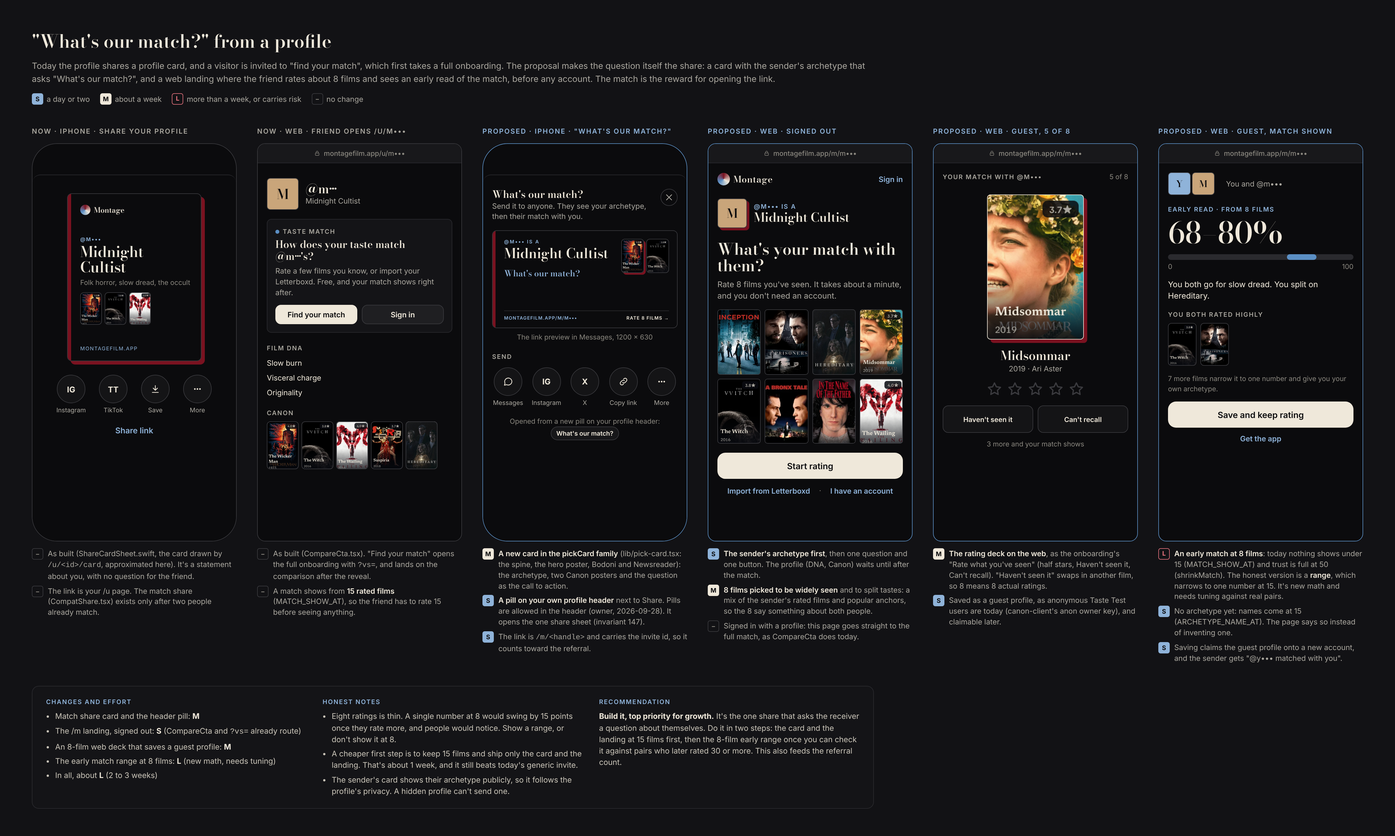
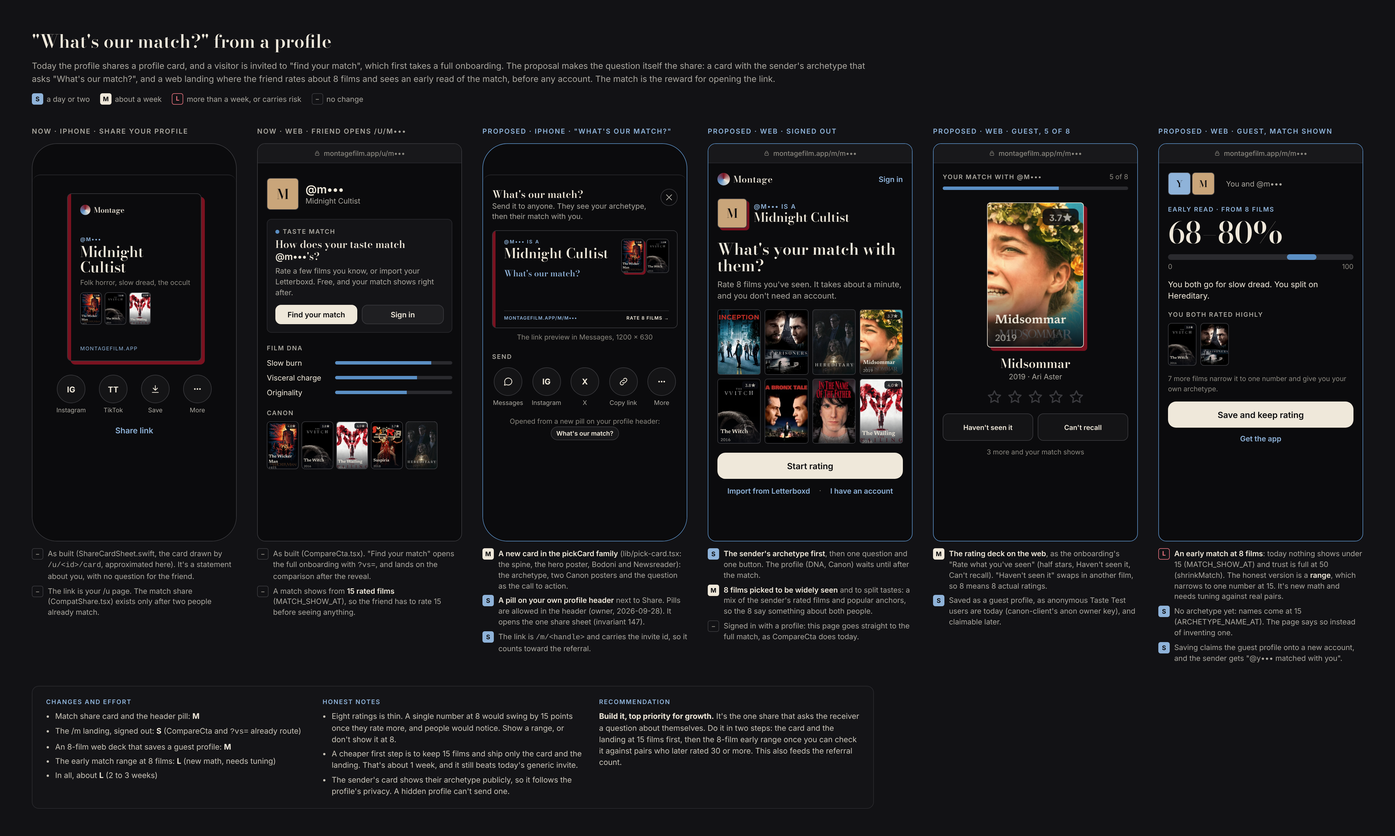
Mocks: growth and retention journey (challenges, referral, official account, match link, year card, Montage Pro)
Six Now-vs-Proposed mocks in mockups/journeys/, each change captioned with
S/M/L effort and an honest recommendation. The paid tier is named Montage
Pro (matches lib/pro.ts). Shared pieces: growth.css, growth-icons.js,
growth-render.js (Playwright, 2x).

Claude-Session: https://claude.ai/code/session_013WRDCFXH8nihP92apJAVW7

Changed region(s): [[0.6864, 0.2167, 0.8112, 0.5571], [0.2496, 0.4333, 0.312, 0.4952], [0.2184, 0.2167, 0.2496, 0.2476]]

diff --git a/mockups/journeys/pro.html b/mockups/journeys/pro.html
@@ -1,0 +1,132 @@
+<!doctype html><html><head><meta charset="utf-8"><title>Montage Pro</title><link href="https://fonts.googleapis.com/css2?family=Bodoni+Moda:opsz,wght@6..96,500;6..96,600&family=Inter:wght@400;500;600;700&family=Newsreader:opsz,wght@6..72,400;6..72,600&display=block" rel="stylesheet"><link rel="stylesheet" href="../proportions-common.css"><link rel="stylesheet" href="growth.css"><style>
+.sheet{position:absolute;left:0;right:0;top:54px;bottom:0;background:#0B0B0D;border-top:1px solid #2A2A2E;border-radius:14px 14px 0 0;padding:10px 16px}
+.mrow{display:flex;align-items:center;gap:12px;height:48px;border-bottom:1px solid #2A2A2E;font-size:15px}
+.mrow .ic3{color:#A9A69E}.mrow .r{margin-left:auto;color:#8A877F;font-size:13px;display:flex;align-items:center;gap:4px}
+.grp{border:1px solid #2A2A2E;border-radius:8px;background:#141417;padding:0 14px;margin-top:14px}
+.grp .mrow:last-child{border-bottom:0}
+.free{display:grid;grid-template-columns:1fr 1fr;gap:5px 10px;margin-top:8px;font-size:12.5px;color:#C9C4B8}
+.free span{display:flex;gap:6px;align-items:center}.free svg{color:#8FB3D9}
+.feat{display:flex;gap:10px;align-items:flex-start;padding:7px 0;border-top:1px solid #2A2A2E}
+.feat svg{color:#8FB3D9;margin-top:1px}
+.feat .a{font:600 13px Inter}.feat .b{font-size:11.5px;color:#8A877F;margin-top:1px;line-height:1.35}
+.plan{border:1px solid #3A3A3E;border-radius:10px;padding:12px 14px;display:flex;align-items:center;gap:12px;margin-top:8px}
+.plan.on{border-color:#5B8FC4;background:rgba(91,143,196,.08)}
+.rad{width:18px;height:18px;border-radius:50%;border:1.5px solid #3A3A3E;flex:none}
+.plan.on .rad{border:5px solid #5B8FC4}
+.plan .p{margin-left:auto;text-align:right}.plan .p b{font:600 15px Inter;display:block}.plan .p span{font-size:11.5px;color:#8A877F}
+.tl{margin-top:16px;position:relative;padding-left:24px}
+.tl:before{content:"";position:absolute;left:7px;top:6px;bottom:8px;width:1.5px;background:#3A3A3E}
+.tl .s{position:relative;padding-bottom:12px}
+.tl .s:before{content:"";position:absolute;left:-22px;top:3px;width:12px;height:12px;border-radius:50%;background:#0B0B0D;border:1.5px solid #3A3A3E}
+.tl .s.on:before{background:#5B8FC4;border-color:#5B8FC4}
+.tl .d{font:600 11px Inter;letter-spacing:1.2px;text-transform:uppercase;color:#A9A69E}.tl .s.on .d{color:#8FB3D9}
+.tl .t{font-size:13.5px;margin-top:2px;line-height:1.35}
+.protag{display:inline-flex;align-items:center;height:16px;padding:0 5px;border-radius:4px;border:1px solid #3A3A3E;font:600 9.5px Inter;letter-spacing:.8px;color:#A9A69E;text-transform:uppercase;margin-left:6px}
+.dna{display:flex;flex-direction:column;gap:9px;margin-top:10px}
+.dna .row{font-size:13px}.dna .row span{width:120px}
+.never{margin-top:14px;border:1px dashed #3A3A3E;border-radius:8px;padding:10px 12px;font-size:12px;color:#A9A69E;line-height:1.45}
+.never b{color:#EFE8DA}
+</style></head><body>
+<h1>Montage Pro (a proposal, not for building now)</h1>
+<p class="lede">A restrained paid tier for depth and identity. It never touches what makes Montage work: matches, Picks, Film DNA, archetypes, taste match between people and movie nights stay free, with no counts, caps or blurred previews. $1.99 a month or $14.99 a year, with a 7-day trial and a reminder two days before the charge. The name fits the code: lib/pro.ts already calls the entitlement "Pro".</p>
+<div class="legend"><span><i class="sz S">S</i> a day or two</span><span><i class="sz M">M</i> about a week</span><span><i class="sz L">L</i> more than a week, or carries risk</span><span><i class="sz N">–</i> no change</span></div>
+
+<div class="sect"><div class="cols">
+<!-- NOW -->
+<div class="col"><div class="tg">Now · ☰ Menu</div>
+<div class="phone" style="height:790px"><div class="sheet">
+ <div class="row" style="justify-content:space-between;margin-top:12px"><span class="t22">Menu</span><span style="font:600 15px Inter">Done</span></div>
+ <div class="grp">
+  <div class="mrow"><i data-g="user" class="ic3"></i>View public profile<span class="r"><i data-g="share" data-s="14"></i></span></div>
+  <div class="mrow"><i data-g="sliders" class="ic3"></i>Settings<span class="r"><i data-g="cr" data-s="14"></i></span></div>
+  <div class="mrow"><i data-g="info" class="ic3"></i>How Montage works</div>
+  <div class="mrow"><i data-g="msg" class="ic3"></i>Send feedback<span class="r"><i data-g="cr" data-s="14"></i></span></div>
+ </div>
+ <div class="grp">
+  <div class="mrow"><i data-g="film" class="ic3"></i>About<span class="r"><i data-g="cr" data-s="14"></i></span></div>
+  <div class="mrow"><i data-g="lock" class="ic3"></i>Privacy<span class="r"><i data-g="cr" data-s="14"></i></span></div>
+  <div class="mrow"><i data-g="bm" class="ic3"></i>Terms<span class="r"><i data-g="cr" data-s="14"></i></span></div>
+ </div>
+</div></div>
+<ul class="chg">
+<li><i class="sz N">–</i><span>As built (AccountScreens.swift). There's nothing to buy anywhere in the app.</span></li>
+<li><i class="sz N">–</i><span>"Pro" exists only as a hand-added <code>pro_accounts</code> row (lib/pro.ts). It gates Lately (runs, recaps, taste over time), which simply doesn't appear for anyone else: no teaser and no lock.</span></li>
+<li><i class="sz N">–</i><span>Revenue today is affiliate links only (teardown section 6).</span></li>
+</ul></div>
+
+<!-- PROPOSED 1: what it is -->
+<div class="col"><div class="tg new">Proposed · Menu › Montage Pro</div>
+<div class="phone new" style="height:790px"><div class="row" style="height:40px"><span class="cbtn">‹ Menu</span></div>
+ <div class="row" style="margin-top:8px;gap:10px"><div class="fan" style="width:34px;height:34px;flex:none"></div><span class="t28">Montage Pro</span></div>
+ <div class="m" style="margin-top:8px;font-size:14px;line-height:1.45">More depth, for people who want it. It also keeps Montage independent.</div>
+ <div class="capsl b" style="margin-top:14px">Always free, for everyone</div>
+ <div class="free"><span><i data-g="check" data-s="14"></i>Matches and Picks</span><span><i data-g="check" data-s="14"></i>Film DNA</span><span><i data-g="check" data-s="14"></i>Your archetype</span><span><i data-g="check" data-s="14"></i>Taste match with anyone</span><span><i data-g="check" data-s="14"></i>Movie nights</span><span><i data-g="check" data-s="14"></i>Your year in film</span></div>
+ <div class="capsl" style="margin-top:14px;margin-bottom:4px">What Pro adds</div>
+ <div class="feat"><i data-g="chart" data-s="16"></i><div><div class="a">Taste over time</div><div class="b">How your Film DNA and archetype moved, month by month</div></div></div>
+ <div class="feat"><i data-g="cal" data-s="16"></i><div><div class="a">Your report, any time</div><div class="b">Any month, season or custom range, not only December</div></div></div>
+ <div class="feat"><i data-g="users" data-s="16"></i><div><div class="a">Group stats</div><div class="b">Who agrees, who splits, every movie night's verdict</div></div></div>
+ <div class="feat"><i data-g="image" data-s="16"></i><div><div class="a">Custom posters</div><div class="b">Pick the poster art your profile and Canon show</div></div></div>
+ <div class="feat"><i data-g="palette" data-s="16"></i><div><div class="a">Profile theme</div><div class="b">A banner and one of four print grades</div></div></div>
+ <div class="feat"><i data-g="canon" data-s="16"></i><div><div class="a">A longer Canon</div><div class="b">25 films, displayed. Your taste reads the same.</div></div></div>
+ <div class="feat"><i data-g="flask" data-s="16"></i><div><div class="a">Early access</div><div class="b">New features a few weeks before everyone</div></div></div>
+ <div class="mbtn" style="margin-top:12px">See plans</div>
+</div>
+<ul class="chg">
+<li><i class="sz S">S</i><span><b>"Always free" comes first</b>, above what Pro adds, so nobody wonders what's being taken away.</span></li>
+<li><i class="sz N">–</i><span>Seven extras, all depth or identity. None changes your matches, picks or match % with anyone.</span></li>
+<li><i class="sz S">S</i><span>"A longer Canon" is <b>display only at 25</b> (the taste weighting stays spread across the Canon), and it sits above the referral's 15, so the two don't collide.</span></li>
+</ul></div>
+
+<!-- PROPOSED 2: pricing + trial -->
+<div class="col"><div class="tg new">Proposed · Plans and the 7-day trial</div>
+<div class="phone new" style="height:790px"><div class="row" style="height:40px"><span class="cbtn">‹ Montage Pro</span></div>
+ <div class="t22" style="margin-top:10px">Try Pro free for 7 days</div>
+ <div class="plan on"><span class="rad"></span><div><div style="font:600 14px Inter">Yearly</div><div class="sm">$1.25 a month, billed yearly</div></div><div class="p"><b>$14.99</b><span>a year</span></div></div>
+ <div class="plan"><span class="rad"></span><div><div style="font:600 14px Inter">Monthly</div><div class="sm">Cancel any time</div></div><div class="p"><b>$1.99</b><span>a month</span></div></div>
+ <div class="tl">
+  <div class="s on"><div class="d">Today</div><div class="t">Everything in Pro. <b>$0.00 due now.</b></div></div>
+  <div class="s"><div class="d">Day 5</div><div class="t">We remind you, in the app and by email, two days before any charge.</div></div>
+  <div class="s"><div class="d">Day 7</div><div class="t">$14.99 for the year, unless you cancelled. Cancel before then in your Apple subscriptions, linked from Settings.</div></div>
+ </div>
+ <div class="mbtn">Start the free week</div>
+ <div class="sm" style="text-align:center;margin-top:10px;line-height:1.5">If you cancel, nothing you made is deleted. Your extra Canon films stay saved, and Pro's views hide again.</div>
+ <div class="row" style="justify-content:center;gap:14px;margin-top:12px"><span class="lnk" style="font-size:12px">Restore purchase</span><span class="lnk" style="font-size:12px">Terms</span><span class="lnk" style="font-size:12px">Privacy</span></div>
+</div>
+<ul class="chg">
+<li><i class="sz S">S</i><span><b>The honest timeline</b>: the same three steps as Popcorn's, but the reminder comes on day 5, not day 6, and by email too. The charge amount is written out.</span></li>
+<li><i class="sz N">–</i><span>$1.99 a month or $14.99 a year undercuts Popcorn ($24.99 a year). $19.99 a year is the other option. Start at $14.99, since raising a price later is easier than cutting one.</span></li>
+<li><i class="sz S">S</i><span>No "less than two movie tickets" or countdown timers. The page is in brand style, cream button, no gradient.</span></li>
+</ul></div>
+
+<!-- PROPOSED 3: quiet mentions -->
+<div class="col"><div class="tg new">Proposed · Where Pro is mentioned</div>
+<div class="phone new" style="height:790px"><div class="top"><div class="fan"></div><div class="wm">Montage</div></div>
+ <div class="utabs"><span class="on">Taste</span><span>Films</span><span>Watchlist</span><span>History</span></div>
+ <div class="sh" style="margin-top:16px"><span class="t">Film DNA</span></div>
+ <div class="dna">
+  <div class="row"><span>Slow burn</span><div class="bar" style="flex:1"><i style="width:82%"></i></div></div>
+  <div class="row"><span>Visceral charge</span><div class="bar" style="flex:1"><i style="width:70%"></i></div></div>
+  <div class="row"><span>Originality</span><div class="bar" style="flex:1"><i style="width:61%"></i></div></div>
+  <div class="row"><span>Emotional realism</span><div class="bar" style="flex:1"><i style="width:48%"></i></div></div>
+ </div>
+ <div class="row" style="margin-top:12px;font-size:13px;color:#A9A69E;gap:6px"><span>See how this changed since May</span><span class="protag">Pro</span><i data-g="cr" data-s="13" style="margin-left:auto"></i></div>
+ <div class="rule" style="margin:14px 0"></div>
+ <div class="capsl">In the share sheet</div>
+ <div class="row" style="gap:5px;margin-top:8px"><span class="cbtn" style="height:30px;padding:0 9px;font-size:12px">Profile</span><span class="cbtn" style="height:30px;padding:0 9px;font-size:12px">October</span><span class="cbtn on" style="height:30px;padding:0 9px;font-size:12px">2026</span><span class="cbtn" style="height:30px;padding:0 8px;font-size:12px;color:#A9A69E">Any range<span class="protag" style="margin-left:4px">Pro</span></span></div>
+ <div class="capsl" style="margin-top:14px">In the ☰ menu</div>
+ <div class="grp" style="margin-top:8px"><div class="mrow" style="height:44px"><i data-g="sliders" class="ic3"></i>Settings<span class="r"><i data-g="cr" data-s="14"></i></span></div><div class="mrow" style="height:44px"><i data-g="spark" class="ic3"></i>Montage Pro<span class="r">Try free<i data-g="cr" data-s="14"></i></span></div></div>
+ <div class="never"><b>Never</b> on Picks, Browse, a film page, a match, a movie night or the taste test. No pop-ups, no badge on other people, and no notification about Pro.</div>
+</div>
+<ul class="chg">
+<li><i class="sz S">S</i><span><b>Three quiet mentions</b>: one grey line under Film DNA, one chip in the share sheet and one menu row. Each uses the keylined tag, never blue (blue means "you"), and never a lock over content.</span></li>
+<li><i class="sz S">S</i><span>A Pro member gets no badge visible to others. Status isn't for sale.</span></li>
+<li><i class="sz S">S</i><span>A rule for the owner's invariants: "no Pro mention on Picks, match, rooms or the taste test", checked like the others.</span></li>
+</ul></div>
+</div></div>
+
+<div class="verdict">
+<div><h3>Changes and effort</h3><ul><li>Pro page, plans, trial and quiet mentions: <b>M</b></li><li>StoreKit 2 subscriptions, server receipt checks and writing <code>pro_accounts</code> with an expiry: <b>L</b></li><li>The web (Stripe) too, so web users can pay: <b>L</b>, and it can wait</li><li>Features: taste over time <b>M</b> (data and the gate exist), report any time <b>S</b> after the year card, group stats <b>M</b>, custom posters <b>M</b>, theme <b>M</b>, longer Canon <b>S</b> after the referral work, early access <b>S</b></li><li>In all, about <b>L</b> (5 to 7 weeks)</li></ul></div>
+<div><h3>Honest notes</h3><ul><li>The money is small at first. At about 1,000 monthly users and 2 to 4% paying, that's 20 to 40 subscribers, roughly $250 to $500 a year after Apple's 15%. Pro is a signal that Montage can last, not a business yet.</li><li>A paywall that arrives before people love the app costs more goodwill than it earns. The teardown already says to wait for retention data and about 1,000+ monthly users.</li><li>Every feature on the list has to be good enough to pay for on its own. "Taste over time" is the only one that's close to built.</li></ul></div>
+<div><h3>Recommendation</h3><p><b>Skip it for now. Revisit at about 1,000 monthly users with 4-week retention data.</b> Keep the page as the design to build to. In the meantime, build the free pieces that Pro would sit on (the year card, the referral's Canon work, the monthly snapshots), so Pro is mostly billing when its time comes.</p></div>
+</div>
+<script src="growth-icons.js"></script></body></html>

diff --git a/mockups/journeys/year-card.html b/mockups/journeys/year-card.html
@@ -1,0 +1,127 @@
+<!doctype html><html><head><meta charset="utf-8"><title>Your year in film</title><link href="https://fonts.googleapis.com/css2?family=Bodoni+Moda:opsz,wght@6..96,500;6..96,600&family=Inter:wght@400;500;600;700&family=Newsreader:opsz,wght@6..72,400;6..72,600&display=block" rel="stylesheet"><link rel="stylesheet" href="../proportions-common.css"><link rel="stylesheet" href="growth.css"><style>
+.sheet{position:absolute;left:0;right:0;top:54px;bottom:0;background:#0B0B0D;border-top:1px solid #2A2A2E;border-radius:14px 14px 0 0;padding:10px 16px}
+.pcard{margin:22px auto 0;width:236px;height:295px;border-radius:8px;box-shadow:6px 6px 0 #7A1220;background:#0b0b0d;border:1px solid #3A3A3E;position:relative;overflow:hidden;padding:18px 16px 14px 22px;display:flex;flex-direction:column}
+.pcard:before{content:"";position:absolute;left:0;top:0;bottom:0;width:6px;background:#7A1220}
+.dest{display:flex;justify-content:center;gap:18px;margin-top:22px}
+.dest span{width:56px;text-align:center;font-size:11px;color:#A9A69E}
+.dest .c{width:50px;height:50px;border-radius:50%;margin:0 auto 5px;border:1px solid #3A3A3E;background:rgba(255,255,255,.04);display:flex;align-items:center;justify-content:center;color:#EFE8DA;font:700 14px Inter}
+/* the 9:16 card */
+.yc{width:324px;height:576px;background:#0b0b0d;border:1px solid #3A3A3E;border-radius:10px;position:relative;overflow:hidden;padding:26px 22px 18px 30px;display:flex;flex-direction:column;box-shadow:8px 8px 0 #7A1220}
+.yc:before{content:"";position:absolute;left:0;top:0;bottom:0;width:8px;background:#7A1220}
+.yc .ey{font:600 10px Newsreader;letter-spacing:2.6px;text-transform:uppercase;color:#8FB3D9}
+.yc .yr{font:600 52px/0.95 'Bodoni Moda';letter-spacing:-1px;margin-top:6px}
+.yc .who{font:400 14px Newsreader;color:#A9A69E;margin-top:6px}
+.yc .nums{display:flex;gap:22px;margin-top:14px;padding-top:12px;border-top:1px solid #2A2A2E}
+.yc .nums b{display:block;font:600 30px/1 'Bodoni Moda'}
+.yc .nums span{font:600 9px Newsreader;letter-spacing:1.8px;text-transform:uppercase;color:#A9A69E}
+.yc .kv{display:flex;flex-direction:column;gap:9px;margin-top:13px}
+.yc .k{font:600 9px Newsreader;letter-spacing:1.8px;text-transform:uppercase;color:#A9A69E}
+.yc .v{font:600 19px/1.1 'Bodoni Moda';margin-top:2px}
+.yc .best{display:flex;gap:14px;align-items:flex-end;margin-top:auto;padding-top:14px}
+.yc .best .po{width:80px;height:120px;outline:2px solid #EFE8DA;outline-offset:-1px;box-shadow:5px 5px 0 #7A1220;border-radius:6px}
+.yc .ft{display:flex;justify-content:space-between;align-items:center;margin-top:14px;padding-top:10px;border-top:1px solid #2A2A2E;font:600 9px Newsreader;letter-spacing:1px;white-space:nowrap;gap:8px;text-transform:uppercase}
+.mt2{display:inline-flex;align-items:center;height:20px;padding:0 8px;border-radius:999px;background:#5B8FC4;color:#0b0b0d;font:700 11px ui-monospace,Menlo,monospace;margin-left:6px;vertical-align:3px}
+.chips{display:flex;gap:6px;margin-top:14px;justify-content:center}
+.chips span{height:30px;padding:0 12px;border-radius:999px;border:1px solid #3A3A3E;font:600 12.5px Inter;display:flex;align-items:center;color:#A9A69E}
+.chips .on{background:rgba(91,143,196,.14);border-color:#5B8FC4;color:#8FB3D9}
+.mini{width:150px;height:267px;margin:12px auto 0;transform-origin:top center}
+.tog{display:flex;align-items:center;justify-content:space-between;padding:10px 0;border-top:1px solid #2A2A2E;font-size:13px}
+.sw{width:40px;height:24px;border-radius:12px;background:#5B8FC4;position:relative}.sw:after{content:"";position:absolute;right:3px;top:3px;width:18px;height:18px;border-radius:50%;background:#EFE8DA}
+.sw.off{background:#3A3A3E}.sw.off:after{right:auto;left:3px}
+.bnr{border:1px solid #2A2A2E;border-radius:8px;background:#141417;padding:12px;display:flex;gap:12px;align-items:center;margin-top:14px}
+</style></head><body>
+<h1>Your year (and month) in film</h1>
+<p class="lede">A 9:16 card for Stories: hours watched, films, top Film DNA strand, archetype, best film and most-matched friend, built from data Montage already has. The year card is free for everyone, as the Montages mock decided ("Yearly, free for everyone"). A month card uses the same frame. Both come from the share sheet that exists, and Pro's only extra is the report for any range, any time.</p>
+<div class="legend"><span><i class="sz S">S</i> a day or two</span><span><i class="sz M">M</i> about a week</span><span><i class="sz L">L</i> more than a week, or carries risk</span><span><i class="sz N">–</i> no change</span></div>
+
+<div class="sect"><div class="cols">
+<!-- NOW -->
+<div class="col"><div class="tg">Now · Share your profile (the only card)</div>
+<div class="phone" style="height:700px"><div class="sheet">
+ <div class="pcard"><div class="row" style="gap:6px"><div class="fan" style="width:18px;height:18px"></div><span style="font:600 13px 'Bodoni Moda'">Montage</span></div>
+  <div class="capsl b" style="margin-top:auto;font-size:9px">@m•••</div><div style="font:600 26px/1.02 'Bodoni Moda';margin-top:4px">Midnight Cultist</div>
+  <div class="sm" style="margin-top:6px">Folk horror, slow dread, the occult</div>
+  <div style="display:flex;gap:5px;margin:8px 0 auto"><div class="po" style="width:38px;height:57px;background-image:url(../img/wickerman.png)"></div><div class="po" style="width:38px;height:57px;background-image:url(../img/witch.png)"></div><div class="po" style="width:38px;height:57px;background-image:url(../img/wailing.png)"></div></div>
+  <div class="sm" style="font-size:9px;letter-spacing:1px;color:#8FB3D9">MONTAGEFILM.APP</div></div>
+ <div class="dest"><span><div class="c">IG</div>Instagram</span><span><div class="c">TT</div>TikTok</span><span><div class="c"><i data-g="dl"></i></div>Save</span><span><div class="c"><i data-g="more"></i></div>More</span></div>
+ <div class="lnk" style="text-align:center;margin-top:18px;font-size:14px">Share link</div>
+</div></div>
+<ul class="chg">
+<li><i class="sz N">–</i><span>The profile card is the only shareable image about you (ShareCardSheet.swift, <code>/u/&lt;id&gt;/card</code>, approximated). It's the same in January as in December.</span></li>
+<li><i class="sz N">–</i><span>The Montages (month, season, year) are mocked in mockups/montages/ but not built. Lately's recaps sit behind <code>pro_accounts</code> (lib/pro.ts) and show for no one by default.</span></li>
+</ul></div>
+
+<!-- PROPOSED 1: year card -->
+<div class="col" style="width:340px"><div class="tg new">Proposed · The year card, 9:16</div>
+<div class="yc">
+ <div class="row" style="gap:7px"><div class="fan" style="width:20px;height:20px"></div><span style="font:600 14px 'Bodoni Moda'">Montage</span></div>
+ <div class="ey" style="margin-top:20px">Your year in film</div>
+ <div class="yr">2026</div>
+ <div class="who">@m•••</div>
+ <div class="nums"><div><b>142</b><span>Films</span></div><div><b>291</b><span>Hours logged</span></div></div>
+ <div class="kv">
+  <div><div class="k">Archetype</div><div class="v">Midnight Cultist</div></div>
+  <div><div class="k">Top strand</div><div class="v">Slow burn</div></div>
+  <div><div class="k">Most matched</div><div class="v"><span style="font:600 16px Inter">@l•••</span><span class="mt2">88%</span></div></div>
+ </div>
+ <div class="best"><div class="po" style="background-image:url(../img/wailing.png)"></div><div style="padding-bottom:4px"><div class="k">Best film</div><div class="v" style="font-size:20px">The Wailing</div><div class="who" style="font-size:13px;margin-top:2px">2016 · ★★★★★</div></div></div>
+ <div class="ft"><span style="color:#8FB3D9">montagefilm.app</span><span>What's our match? →</span></div>
+</div>
+<ul class="chg" style="margin-top:20px">
+<li><i class="sz M">M</i><span><b>A server-drawn card</b> (ImageResponse), as the profile card and pickCard are: the oxblood spine, the hero poster with the cream keyline and offset, Bodoni and Newsreader only (rule 443).</span></li>
+<li><i class="sz S">S</i><span><b>Hours logged</b> = logged watches × <code>films.runtime_minutes</code>. Films rated with no watch date add nothing, so the label says "logged".</span></li>
+<li><i class="sz S">S</i><span>The footer is the match question, so every Story also works as an invite.</span></li>
+</ul></div>
+
+<!-- PROPOSED 2: month card -->
+<div class="col" style="width:340px"><div class="tg new">Proposed · The month card, same frame</div>
+<div class="yc">
+ <div class="row" style="gap:7px"><div class="fan" style="width:20px;height:20px"></div><span style="font:600 14px 'Bodoni Moda'">Montage</span></div>
+ <div class="ey" style="margin-top:20px">Your month in film</div>
+ <div class="yr" style="font-size:50px">October</div>
+ <div class="who">@m••• · 2026</div>
+ <div class="nums"><div><b>14</b><span>Films</span></div><div><b>27</b><span>Hours logged</span></div></div>
+ <div class="kv">
+  <div><div class="k">Archetype</div><div class="v">Still Midnight Cultist</div></div>
+  <div><div class="k">Top strand</div><div class="v">Visceral charge</div></div>
+  <div><div class="k">Most matched</div><div class="v"><span style="font:600 16px Inter">@d•••</span><span class="mt2">81%</span></div></div>
+ </div>
+ <div class="best"><div class="po" style="background-image:url(../img/hereditary.png)"></div><div style="padding-bottom:4px"><div class="k">Best film</div><div class="v" style="font-size:20px">Hereditary</div><div class="who" style="font-size:13px;margin-top:2px">2018 · ★★★★½</div></div></div>
+ <div class="ft"><span style="color:#8FB3D9">montagefilm.app</span><span>What's our match? →</span></div>
+</div>
+<ul class="chg" style="margin-top:20px">
+<li><i class="sz S">S</i><span><b>The same component with a date range</b>. It shows only for a month with 4 or more logged films. With fewer, the numbers say nothing.</span></li>
+<li><i class="sz S">S</i><span>"Still" or "Now" before the archetype comes from the monthly taste snapshots, which are already written for everyone.</span></li>
+</ul></div>
+
+<!-- PROPOSED 3: where it lives -->
+<div class="col"><div class="tg new">Proposed · Where it lives</div>
+<div class="phone new" style="height:700px"><div class="sheet">
+ <div class="row" style="margin-top:12px;justify-content:space-between"><span class="t18">Share</span><span class="cl"><i data-g="x"></i></span></div>
+ <div class="chips"><span>Profile</span><span>October</span><span class="on">2026</span></div>
+ <div style="width:150px;height:267px;margin:14px auto 0;overflow:hidden;border-radius:6px;box-shadow:5px 5px 0 #7A1220">
+  <div class="yc" style="transform:scale(.463);transform-origin:top left;box-shadow:none">
+   <div class="row" style="gap:7px"><div class="fan" style="width:20px;height:20px"></div><span style="font:600 14px 'Bodoni Moda'">Montage</span></div>
+   <div class="ey" style="margin-top:20px">Your year in film</div><div class="yr">2026</div><div class="who">@m•••</div>
+   <div class="nums"><div><b>142</b><span>Films</span></div><div><b>291</b><span>Hours logged</span></div></div>
+   <div class="kv"><div><div class="k">Archetype</div><div class="v">Midnight Cultist</div></div><div><div class="k">Top strand</div><div class="v">Slow burn</div></div><div><div class="k">Most matched</div><div class="v"><span style="font:600 16px Inter">@l•••</span><span class="mt2">88%</span></div></div></div>
+   <div class="best"><div class="po" style="background-image:url(../img/wailing.png)"></div><div><div class="k">Best film</div><div class="v">The Wailing</div></div></div>
+   <div class="ft"><span style="color:#8FB3D9">montagefilm.app</span><span>What's our match? →</span></div>
+  </div></div>
+ <div class="tog" style="margin-top:16px"><span>Show most-matched friend</span><span class="sw"></span></div>
+ <div class="tog"><span>Show hours</span><span class="sw"></span></div>
+ <div class="dest" style="margin-top:12px"><span><div class="c">IG</div>Stories</span><span><div class="c">TT</div>TikTok</span><span><div class="c"><i data-g="dl"></i></div>Save</span><span><div class="c"><i data-g="more"></i></div>More</span></div>
+</div></div>
+<ul class="chg">
+<li><i class="sz S">S</i><span><b>Chips on the existing share sheet</b>: Profile, the last full month, and the year from December 1. It's the one share sheet (invariant 147), with no new screen.</span></li>
+<li><i class="sz S">S</i><span><b>Two toggles</b>: the friend appears only if they're a mutual who shares activity, and you can hide them (or the hours) before sharing.</span></li>
+<li><i class="sz S">S</i><span>A one-time Activity line on Dec 1: "Your 2026 in film is ready". No push notification unless notifications are on.</span></li>
+</ul></div>
+</div></div>
+
+<div class="verdict">
+<div><h3>Changes and effort</h3><ul><li>The 9:16 card renderer: <b>M</b></li><li>Data (counts, hours, top strand, best film, most matched): <b>S</b>, all already stored</li><li>The month variant: <b>S</b> once the year card exists</li><li>Share sheet chips, toggles and the Dec 1 line: <b>S</b></li><li>In all, about <b>M</b> (1 week)</li></ul></div>
+<div><h3>Honest notes</h3><ul><li>Hours are only as good as the logs. Someone who imported Letterboxd without diary dates will see low hours, so hide the number when under about half of their films are dated.</li><li>"Best film" is the top rating. With ties, pick the latest watch and don't pretend there's more to it.</li><li>The full Montages recap (mockups/montages/) is a bigger job. This card is the cheap, shareable slice of it, and it doesn't replace it.</li></ul></div>
+<div><h3>Recommendation</h3><p><b>Build the year card now, for December.</b> It's seasonal, so it pays off only if it ships by about Dec 1. Its free share also advertises the match link. Add the month card in January, once you can see whether people share the year one. Leave "any range, any time" for Pro.</p></div>
+</div>
+<script src="growth-icons.js"></script></body></html>

diff --git a/mockups/journeys/referral.html b/mockups/journeys/referral.html
@@ -109,13 +109,13 @@
 <ul class="chg">
 <li><i class="sz S">S</i><span><b>Close to free to build</b>: lib/pro.ts already gates Lately (runs, recaps, taste over time) behind a <code>pro_accounts</code> row. The reward is that row, with an expiry date added.</span></li>
 <li><i class="sz N">–</i><span>The monthly snapshots are already written for everyone, so the chart has history on day one.</span></li>
-<li><i class="sz S">S</i><span>But it runs out, which makes it a trial in disguise. It also ties referral to a Plus that doesn't exist yet.</span></li>
+<li><i class="sz S">S</i><span>But it runs out, which makes it a trial in disguise. It also ties referral to a paid Montage Pro that doesn't exist yet.</span></li>
 </ul></div>
 </div></div>
 
 <div class="verdict">
 <div><h3>Changes and effort</h3><ul><li>Progress block on the invite sheet: <b>S</b></li><li>Server-side attribution across profile, room and match links: <b>M</b></li><li>iPhone install attribution (a "Who invited you?" step): <b>L</b></li><li>Reward A, a per-account Canon size: <b>M</b>. Reward B, an expiring Pro row: <b>S</b></li><li>In all, about <b>M+</b> (2 weeks), mostly attribution</li></ul></div>
 <div><h3>Honest notes</h3><ul><li>The hard part is counting, not the reward. Today the attribution is one localStorage key on the web, so on iPhone most real joins would be missed and the progress bar would look broken.</li><li>Unlocking a bigger Canon touches taste weighting. If the extra five count at full weight, a referral changes your recommendations.</li><li>At today's user count, few people will reach three. Expect a handful of unlocks a month until there's more traffic.</li></ul></div>
-<div><h3>Recommendation</h3><p><b>Build it after the match link, with reward A.</b> The match link creates the links worth counting, and A is permanent and personal. Skip B for now, because it only makes sense once Plus exists. Ship the progress block and server-side attribution first, and leave iPhone install attribution until the numbers justify it.</p></div>
+<div><h3>Recommendation</h3><p><b>Build it after the match link, with reward A.</b> The match link creates the links worth counting, and A is permanent and personal. Skip B for now, because it only makes sense once Montage Pro is sold. Ship the progress block and server-side attribution first, and leave iPhone install attribution until the numbers justify it.</p></div>
 </div>
 <script src="growth-icons.js"></script></body></html>

diff --git a/mockups/journeys/growth-icons.js b/mockups/journeys/growth-icons.js
@@ -9,7 +9,7 @@ msg:'<path d="M21 11.5a8.5 8.5 0 01-12.4 7.6L3.5 20.5l1.4-4.6A8.5 8.5 0 1121 11.
 split:'<path d="M12 3v6M12 9l-6 6v6M12 9l6 6v6"/>',decade:'<rect x="3" y="6" width="18" height="12" rx="2"/><path d="M8 6v12M16 6v12"/>',
 user:'<circle cx="12" cy="8" r="4"/><path d="M4 21a8 8 0 0116 0"/>',sliders:'<path d="M4 6h10M18 6h2M4 12h4M12 12h8M4 18h12"/><circle cx="16" cy="6" r="2"/><circle cx="10" cy="12" r="2"/><circle cx="18" cy="18" r="2"/>',
 info:'<circle cx="12" cy="12" r="8.5"/><path d="M12 11v5M12 8h.01"/>',gift:'<rect x="4" y="9" width="16" height="11" rx="1.5"/><path d="M3 9h18M12 9v11M12 9c-2-4-6-4-6-1.5S9 9 12 9c3 0 6 .5 6-1.5S14 5 12 9"/>',
-canon:'<path d="M12 3l2.2 4.6 5 .7-3.6 3.5.9 5L12 14.4 7.5 16.8l.9-5L4.8 8.3l5-.7z"/>',bm:'<path d="M7 4h10v16l-5-4-5 4z"/>',chart:'<path d="M4 20V10M10 20V4M16 20v-7M22 20H2"/>',
+spark:'<path d="M12 3l1.8 5.2L19 10l-5.2 1.8L12 17l-1.8-5.2L5 10l5.2-1.8z"/>',canon:'<path d="M12 3l2.2 4.6 5 .7-3.6 3.5.9 5L12 14.4 7.5 16.8l.9-5L4.8 8.3l5-.7z"/>',bm:'<path d="M7 4h10v16l-5-4-5 4z"/>',chart:'<path d="M4 20V10M10 20V4M16 20v-7M22 20H2"/>',
 palette:'<circle cx="12" cy="12" r="8.5"/><circle cx="8.5" cy="10" r="1"/><circle cx="12" cy="7.5" r="1"/><circle cx="15.5" cy="10" r="1"/><path d="M12 20.5c-1.5 0-2-1.5-1-2.5s0-2.5 1.5-2.5H16"/>',
 image:'<rect x="3" y="4" width="18" height="16" rx="2"/><circle cx="9" cy="10" r="2"/><path d="M21 16l-5-5-9 9"/>',flask:'<path d="M9 3h6M10 3v6L4.5 19a1.5 1.5 0 001.3 2h12.4a1.5 1.5 0 001.3-2L14 9V3"/>',
 copy:'<rect x="8" y="8" width="12" height="12" rx="2"/><path d="M16 8V5a1 1 0 00-1-1H5a1 1 0 00-1 1v10a1 1 0 001 1h3"/>',more:'<circle cx="6" cy="12" r="1"/><circle cx="12" cy="12" r="1"/><circle cx="18" cy="12" r="1"/>',

diff --git a/mockups/journeys/match-link.html b/mockups/journeys/match-link.html
@@ -49,8 +49,8 @@
 <!-- NOW 2 -->
 <div class="col"><div class="tg">Now · Web · Friend opens /u/m•••</div>
 <div class="web" style="height:700px"><div class="url"><i data-g="lock" data-s="11"></i>montagefilm.app/u/m•••</div><div class="in">
- <div class="ph"><div class="av" style="width:56px;height:56px;background:#C9A57A;font-size:24px">M</div><div><div class="t22">@m•••</div><div class="m">Midnight Cultist</div></div></div>
- <div class="bnr"><div class="capsl"><span class="dot"></span>Taste match</div><div class="t18" style="margin-top:6px">How does your taste match @m•••'s?</div>
+ <div class="ph"><div class="av" style="width:56px;height:56px;background:#C9A57A;font-size:24px">M</div><div><div class="t22"><span class="hd">@m•••</span></div><div class="m">Midnight Cultist</div></div></div>
+ <div class="bnr"><div class="capsl"><span class="dot"></span>Taste match</div><div class="t18" style="margin-top:6px">How does your taste match <span class="hd">@m•••</span>'s?</div>
   <div class="m" style="margin-top:6px;line-height:1.45">Rate a few films you know, or import your Letterboxd. Free, and your match shows right after.</div>
   <div class="row" style="margin-top:12px;gap:8px"><span class="cbtn main" style="flex:1">Find your match</span><span class="cbtn" style="flex:1">Sign in</span></div></div>
  <div class="capsl" style="margin-top:20px">Film DNA</div>

diff --git a/mockups/journeys/growth.css b/mockups/journeys/growth.css
@@ -1,4 +1,4 @@
-/* Growth and retention journey mocks (challenges, referral, official account, match link, year card, Plus).
+/* Growth and retention journey mocks (challenges, referral, official account, match link, year card, Pro).
    Sits on ../proportions-common.css. Separate from journeys.css, which other journey mocks use. */
 body{width:max-content}
 .lede{max-width:1480px;line-height:1.5}
@@ -54,3 +54,5 @@ svg.i{width:18px;height:18px;fill:none;stroke:currentColor;stroke-width:1.75;str
 .prow .tx{flex:1;min-width:0}.prow .nm{font:600 14px Inter;white-space:nowrap;overflow:hidden;text-overflow:ellipsis}.prow .ds{font-size:12px;color:#8A877F;margin-top:1px;white-space:nowrap;overflow:hidden;text-overflow:ellipsis}
 .sm{font-size:12px;color:#8A877F}
 .pips{display:flex;gap:4px}.pips i{width:16px;height:4px;border-radius:2px;background:#3A3A3E;display:block}.pips i.on{background:#5B8FC4}
+.bar{height:6px;border-radius:3px;background:#2A2A2E;overflow:hidden}.bar i{display:block;height:100%;background:#5B8FC4}
+.hd{font-family:Inter;font-weight:600;font-size:.9em}

diff --git a/mockups/journeys/growth-render.js b/mockups/journeys/growth-render.js
@@ -1,7 +1,7 @@
 // node mockups/journeys/growth-render.js [name ...]: the growth mocks to PNG at 2x (Playwright, Chromium).
 const { chromium } = require('playwright');
 const path = require('path');
-const ALL = ['challenges', 'referral', 'official-account', 'match-link', 'year-card', 'plus'];
+const ALL = ['challenges', 'referral', 'official-account', 'match-link', 'year-card', 'pro'];
 (async () => {
   const names = process.argv.slice(2).length ? process.argv.slice(2) : ALL;
   const browser = await chromium.launch();
